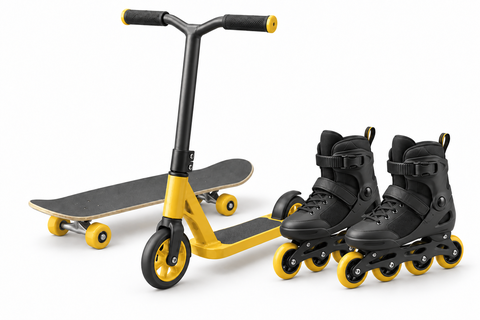
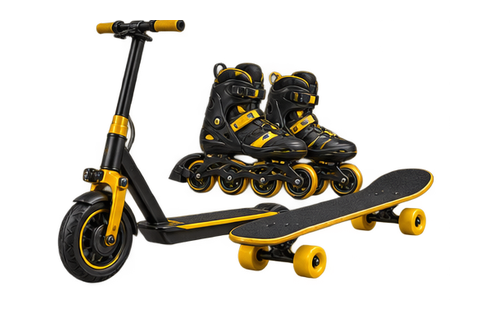
Fix bicycle menu preview, transparent section artwork and tax labels

diff --git a/profile.html b/profile.html
@@ -122,7 +122,7 @@
     </div>
   </main>
   <footer class="buyerCompactFooter"><a href="index.html">ПрофиСпорт · Оренбург</a><div class="buyerFooterLinks" aria-label="Информация покупателям"><a href="buyer-info.html#warranty">Гарантия</a><a href="buyer-info.html#payment">Оплата</a><a href="buyer-info.html#delivery">Доставка</a></div></footer>
-  <script src="catalog-loader.js?v=31"></script>
+  <script src="catalog-loader.js?v=32"></script>
   <script>
     let csrf='';const $=s=>document.querySelector(s);const esc=s=>String(s||'').replace(/[&<>"']/g,m=>({'&':'&amp;','<':'&lt;','>':'&gt;','"':'&quot;',"'":'&#39;'}[m]));
     async function api(action,opts={}){opts.headers={...(opts.headers||{}),'Content-Type':'application/json'};if(csrf)opts.headers['X-CSRF-Token']=csrf;const r=await fetch('api/customer.php?action='+action,opts);const j=await r.json();if(!r.ok)throw new Error(j.error||r.status);if(j.csrf)csrf=j.csrf;return j}
@@ -148,7 +148,7 @@
       return (items||[]).map(function(i){
         const image=i.image?'<img src="'+esc(i.image)+'" alt="" loading="lazy" decoding="async">':'<span class="customerOrderItemPh">Фото</span>';
         const availability=i.current_available?'<span class="orderItemNow available">Сейчас в наличии</span>':'<span class="orderItemNow unavailable">Сейчас недоступен</span>';
-        return '<div class="customerOrderItem"><div class="customerOrderItemImage">'+image+'</div><div class="customerOrderItemInfo"><b>'+esc(i.title)+'</b><span>'+Number(i.quantity)+' шт. × '+Number(i.price_rub||0).toLocaleString('ru-RU')+' ₽</span>'+availability+'</div><strong>'+Number(i.line_total_rub||0).toLocaleString('ru-RU')+' ₽</strong></div>';
+        return '<div class="customerOrderItem"><div class="customerOrderItemImage">'+image+'</div><div class="customerOrderItemInfo"><b>'+esc(cleanCatalogLabel(i.title))+'</b><span>'+Number(i.quantity)+' шт. × '+Number(i.price_rub||0).toLocaleString('ru-RU')+' ₽</span>'+availability+'</div><strong>'+Number(i.line_total_rub||0).toLocaleString('ru-RU')+' ₽</strong></div>';
       }).join('');
     }
     async function repeatOrder(number,button){
@@ -165,7 +165,7 @@
         localStorage.setItem('ps-cart',JSON.stringify(existing.concat(ids)));
         if((j.skipped||[]).length){
           const notice=document.querySelector('#repeatOrderNotice');
-          const skipped=(j.skipped||[]).map(function(x){return esc(x.title)+(x.reason==='reduced_stock'?' — добавлено '+Number(x.added)+' из '+Number(x.requested):' — недоступен')}).join('<br>');
+          const skipped=(j.skipped||[]).map(function(x){return esc(cleanCatalogLabel(x.title))+(x.reason==='reduced_stock'?' — добавлено '+Number(x.added)+' из '+Number(x.requested):' — недоступен')}).join('<br>');
           if(notice)notice.innerHTML='<div class="orderRepeatWarn"><b>Корзина собрана частично.</b><br>'+skipped+'<br><a href="checkout.html">Перейти к оформлению</a></div>';
           button.textContent='Добавлено в корзину';
           return;
@@ -294,7 +294,7 @@
     function maintenanceAlertMarkup(a){
       const due=String(a.severity)==='due',pct=a.wear_percent!==null&&a.wear_percent!==undefined?Number(a.wear_percent).toLocaleString('ru-RU',{maximumFractionDigits:1})+'%':'';
       const replacement=a.compatible_product?.available?'<a href="product.html?id='+encodeURIComponent(a.compatible_product.id)+'">Купить замену · '+Number(a.compatible_product.price_rub||0).toLocaleString('ru-RU')+' ₽</a>':(a.compatible_product_id?'<span class="maintenancePartUnavailable">Совместимая деталь сейчас не в наличии</span>':'');
-      return '<article class="maintenanceAlert '+(due?'due':'soon')+' '+(a.status==='acknowledged'?'acknowledged':'')+'" data-alert-id="'+Number(a.id)+'"><div class="maintenanceAlertIcon">'+(due?'!':'⌛')+'</div><div class="maintenanceAlertBody"><b>'+esc(a.title)+'</b><p>'+esc(a.message)+'</p><div class="maintenanceAlertMeta"><span>'+esc(a.vehicle_title||'Техника')+'</span>'+(pct?'<span>Износ '+pct+'</span>':'')+(a.status==='acknowledged'?'<span>Прочитано</span>':'')+'</div><div class="maintenanceAlertActions"><button type="button" data-alert-vehicle="'+Number(a.vehicle_id)+'">Открыть паспорт</button>'+replacement+(a.status!=='acknowledged'?'<button class="secondary" type="button" data-ack-alert="'+Number(a.id)+'">Прочитано</button>':'')+'</div></div></article>';
+      return '<article class="maintenanceAlert '+(due?'due':'soon')+' '+(a.status==='acknowledged'?'acknowledged':'')+'" data-alert-id="'+Number(a.id)+'"><div class="maintenanceAlertIcon">'+(due?'!':'⌛')+'</div><div class="maintenanceAlertBody"><b>'+esc(cleanCatalogLabel(a.title))+'</b><p>'+esc(a.message)+'</p><div class="maintenanceAlertMeta"><span>'+esc(cleanCatalogLabel(a.vehicle_title||'Техника'))+'</span>'+(pct?'<span>Износ '+pct+'</span>':'')+(a.status==='acknowledged'?'<span>Прочитано</span>':'')+'</div><div class="maintenanceAlertActions"><button type="button" data-alert-vehicle="'+Number(a.vehicle_id)+'">Открыть паспорт</button>'+replacement+(a.status!=='acknowledged'?'<button class="secondary" type="button" data-ack-alert="'+Number(a.id)+'">Прочитано</button>':'')+'</div></div></article>';
     }
     function renderMaintenanceAlerts(){
       const box=$('#maintenanceAlerts');if(!box)return;
@@ -310,7 +310,7 @@
     }
     function replacementPurchaseMarkup(p){
       const remaining=Number(p.remaining_qty||0),candidates=Array.isArray(p.candidates)?p.candidates:[];
-      return '<article class="replacementPurchaseCard" data-purchase-id="'+Number(p.id)+'"><div><b>'+esc(p.title)+'</b><p>Куплено: '+Number(p.quantity||1)+' · осталось назначить: '+remaining+'</p></div><div class="replacementCandidateList">'+(candidates.length?candidates.map(c=>'<button type="button" data-assign-purchase="'+Number(p.id)+'" data-assign-component="'+Number(c.component_id)+'"><span>'+esc(c.vehicle_title)+'</span><small>'+esc(c.component_label)+'</small></button>').join(''):'<span class="replacementNoCandidate">Совместимая техника сейчас не найдена. Покупка сохранена и не будет назначена автоматически.</span>')+'</div></article>';
+      return '<article class="replacementPurchaseCard" data-purchase-id="'+Number(p.id)+'"><div><b>'+esc(cleanCatalogLabel(p.title))+'</b><p>Куплено: '+Number(p.quantity||1)+' · осталось назначить: '+remaining+'</p></div><div class="replacementCandidateList">'+(candidates.length?candidates.map(c=>'<button type="button" data-assign-purchase="'+Number(p.id)+'" data-assign-component="'+Number(c.component_id)+'"><span>'+esc(cleanCatalogLabel(c.vehicle_title))+'</span><small>'+esc(c.component_label)+'</small></button>').join(''):'<span class="replacementNoCandidate">Совместимая техника сейчас не найдена. Покупка сохранена и не будет назначена автоматически.</span>')+'</div></article>';
     }
     function renderReplacementPurchases(){
       const box=$('#replacementPurchases');if(!box)return;
@@ -335,7 +335,7 @@
       const current=latestVehicleService(v.id),components=Array.isArray(v.passport?.components)?v.passport.components:[],known=components.filter(c=>c.model||c.manufacturer).length;
       const attention=components.filter(c=>['soon','due'].includes(String(c.wear?.state||''))).length;
       const status=current?'<span class="vehicleServiceState" data-status="'+esc(current.status)+'">'+esc(serviceStatusLabels[current.status]||current.status)+'</span>':attention?'<span class="vehicleServiceState" data-status="repair">Внимание: '+attention+'</span>':'<span class="vehicleServiceState idle">Сервис не требуется</span>';
-      const product=v.product_id?'<a class="vehicleTitle" href="product.html?id='+encodeURIComponent(v.product_id)+'">'+esc(v.title)+'</a>':'<span class="vehicleTitle">'+esc(v.title)+'</span>';
+      const product=v.product_id?'<a class="vehicleTitle" href="product.html?id='+encodeURIComponent(v.product_id)+'">'+esc(cleanCatalogLabel(v.title))+'</a>':'<span class="vehicleTitle">'+esc(cleanCatalogLabel(v.title))+'</span>';
       return '<article class="vehicleCard" data-vehicle-card="'+Number(v.id)+'"><div class="vehicleImage">'+vehicleImageMarkup(v)+'</div><div class="vehicleBody"><div class="vehicleTop"><span class="vehicleType">'+esc(vehicleTypeLabel(v.vehicle_type))+'</span>'+status+'</div>'+product+'<div class="vehicleMeta"><span>Покупка: '+esc(formatDate(v.purchase_date)||'—')+'</span><span>Заказ '+esc(v.order_number||'—')+'</span>'+(v.odometer_km!==null&&v.odometer_km!==undefined?'<span>'+Number(v.odometer_km).toLocaleString('ru-RU')+' км</span>':'')+(Number(v.unit_index)>1?'<span>Экземпляр '+Number(v.unit_index)+'</span>':'')+'</div><div class="vehicleMeta"><span>Подтверждено компонентов: '+known+'</span></div><div class="vehicleActions"><button type="button" class="secondary" data-open-passport="'+Number(v.id)+'">Паспорт техники</button><button type="button" data-service-vehicle="'+Number(v.id)+'">'+(current?'Новое обращение':'Записать в сервис')+'</button>'+(current?'<a href="#service-'+Number(current.id)+'">Текущий ремонт</a>':'')+'</div></div></article>';
     }
     function passportWearLabel(w){
@@ -375,7 +375,7 @@
         ?'<div><div class="vehiclePassportDiagram"><img src="assets/guide/bicycle.png" width="1382" height="1130" alt="Схема велосипеда">'+hotspots.map((h,i)=>'<button type="button" class="vehiclePassportHotspot '+passportStateForHotspot(passport,h.key)+'" style="left:'+Number(h.x)+'%;top:'+Number(h.y)+'%" data-passport-hotspot="'+esc(h.key)+'" aria-label="'+esc(h.label)+'">'+(i+1)+'</button>').join('')+'</div><div class="vehiclePassportLegend"><span>Зелёный — запас ресурса</span><span>Жёлтый — наблюдать</span><span>Оранжевый — скоро</span><span>Красный — расчётный ресурс исчерпан</span><span>Серый — данных недостаточно</span></div></div>'
         :'<div class="vehiclePassportEmpty"><b>Интерактивная схема для этого типа техники пока не настроена.</b><p>Паспорт узлов и история обслуживания работают без ложной велосипедной схемы.</p></div>';
       box.classList.remove('hidden');
-      box.innerHTML='<div class="vehiclePassportHead"><div><span class="profileSectionKicker">Паспорт техники</span><h4>'+esc(vehicle.title)+'</h4><p>'+(attention?'Требуют внимания: '+attention+' узл.':'Критических прогнозов сейчас нет.')+'</p></div><button id="closeVehiclePassport" class="secondary" type="button">Свернуть</button></div>'+
+      box.innerHTML='<div class="vehiclePassportHead"><div><span class="profileSectionKicker">Паспорт техники</span><h4>'+esc(cleanCatalogLabel(vehicle.title))+'</h4><p>'+(attention?'Требуют внимания: '+attention+' узл.':'Критических прогнозов сейчас нет.')+'</p></div><button id="closeVehiclePassport" class="secondary" type="button">Свернуть</button></div>'+
         '<div class="vehiclePassportLayout">'+visual+
         '<div><div id="vehiclePassportComponentList" class="vehiclePassportComponentList">'+(components.length?components.map(passportComponentCard).join(''):'<div class="vehiclePassportEmpty"><b>Точная комплектация ещё не подтверждена.</b><p>Мы не показываем выдуманные компоненты: здесь появятся только данные из 1С, сервиса или проверенного источника.</p></div>')+'</div><div class="vehiclePassportFoot"><button type="button" data-service-vehicle="'+Number(vehicle.id)+'">Записать технику в сервис</button></div></div></div>';
       $('#closeVehiclePassport').onclick=()=>{box.classList.add('hidden');box.innerHTML=''};
@@ -422,7 +422,7 @@
     }
     function openVehicleService(vehicle){
       const box=$('#serviceComposer');box.classList.remove('hidden');
-      box.innerHTML='<div class="vehicleServiceComposerHead"><div><span class="profileSectionKicker">Новая заявка</span><h4>'+esc(vehicle.title)+'</h4></div><button type="button" class="secondary" id="closeVehicleService">Закрыть</button></div><form id="vehicleServiceForm" data-vehicle-id="'+Number(vehicle.id)+'" data-request-key="'+newServiceRequestKey()+'"><label>Что нужно сделать<select name="service_type" required><option value="Диагностика">Диагностика</option><option value="Тормоза">Тормоза</option><option value="Передачи и цепь">Передачи и цепь</option><option value="Колёса и покрышки">Колёса и покрышки</option><option value="Техническое обслуживание">Техническое обслуживание</option><option value="Сборка и настройка">Сборка и настройка</option><option value="Другое">Другое</option></select></label><label>Опишите проблему<textarea name="problem" minlength="5" maxlength="4000" rows="5" required placeholder="Что произошло, когда появилось, какие симптомы?"></textarea></label><div class="vehicleServiceComposerActions"><button type="submit">Отправить заявку</button><span id="vehicleServiceMessage" aria-live="polite"></span></div></form>';
+      box.innerHTML='<div class="vehicleServiceComposerHead"><div><span class="profileSectionKicker">Новая заявка</span><h4>'+esc(cleanCatalogLabel(vehicle.title))+'</h4></div><button type="button" class="secondary" id="closeVehicleService">Закрыть</button></div><form id="vehicleServiceForm" data-vehicle-id="'+Number(vehicle.id)+'" data-request-key="'+newServiceRequestKey()+'"><label>Что нужно сделать<select name="service_type" required><option value="Диагностика">Диагностика</option><option value="Тормоза">Тормоза</option><option value="Передачи и цепь">Передачи и цепь</option><option value="Колёса и покрышки">Колёса и покрышки</option><option value="Техническое обслуживание">Техническое обслуживание</option><option value="Сборка и настройка">Сборка и настройка</option><option value="Другое">Другое</option></select></label><label>Опишите проблему<textarea name="problem" minlength="5" maxlength="4000" rows="5" required placeholder="Что произошло, когда появилось, какие симптомы?"></textarea></label><div class="vehicleServiceComposerActions"><button type="submit">Отправить заявку</button><span id="vehicleServiceMessage" aria-live="polite"></span></div></form>';
       $('#closeVehicleService').onclick=function(){box.classList.add('hidden');box.innerHTML=''};
       $('#vehicleServiceForm').onsubmit=submitVehicleService;
       box.scrollIntoView({behavior:'smooth',block:'center'});
@@ -454,7 +454,7 @@
     function favoriteCardMarkup(p){
       const id=String(p.product_id);
       const image=p.image?'<img src="'+esc(p.image)+'" alt="" loading="lazy" decoding="async">':'<span class="favoriteImagePlaceholder">Фото уточняется</span>';
-      const title=p.exists?esc(p.name):'Товар больше недоступен';
+      const title=p.exists?esc(cleanCatalogLabel(p.name)):'Товар больше недоступен';
       const link=p.url?'<a class="favoriteTitle" href="'+esc(p.url)+'">'+title+'</a>':'<span class="favoriteTitle">'+title+'</span>';
       const cart=p.available?'<button type="button" class="favoriteAddCart" data-favorite-cart="'+esc(id)+'">В корзину</button>':'<button type="button" class="favoriteAddCart" disabled>Нет в наличии</button>';
       return '<article class="favoriteCard" data-favorite-card="'+esc(id)+'"><button type="button" class="favoriteRemove" data-favorite-remove="'+esc(id)+'" aria-label="Удалить из избранного">♥</button><div class="favoriteImage">'+image+'</div><div class="favoriteBody">'+link+favoriteStockMarkup(p)+'<div class="favoritePriceRow">'+favoritePriceMarkup(p)+'</div><div class="favoriteActions">'+cart+(p.url?'<a href="'+esc(p.url)+'" class="favoriteOpen">Открыть</a>':'')+'</div><div class="favoriteNotice" aria-live="polite"></div></div></article>';

diff --git a/index.html b/index.html
@@ -15,7 +15,7 @@
   <link rel="alternate icon" type="image/png" href="assets/brand/favicon-profisport-v1.png">
   <link rel="stylesheet" href="back-to-top.css?v=2">
   <link rel="stylesheet" href="motion.css?v=3">
-  <link rel="stylesheet" href="sport-energy.css?v=13">
+  <link rel="stylesheet" href="sport-energy.css?v=14">
   <link href="psf-final-motion.css?v=12" rel="stylesheet">
   <script src="motion.js?v=6" defer></script>
 </head>
@@ -58,7 +58,7 @@
   </header>
 
   <nav>
-    <a id="desktopCatalogLink" href="#catalog">Каталог</a><a href="#catalog" data-department="bicycle">Велосипеды</a><a href="#catalog" data-category="запчаст">Запчасти</a><a href="#catalog" data-category="аксессуар">Аксессуары</a><a href="#catalog" data-category="лыж">Зимний спорт</a><a href="#catalog" data-category="фитнес">Фитнес</a><a href="service.html">Сервис</a>
+    <a id="desktopCatalogLink" href="#catalog">Каталог</a><a href="#catalog" data-category="велосипед">Велосипеды</a><a href="#catalog" data-category="запчаст">Запчасти</a><a href="#catalog" data-category="аксессуар">Аксессуары</a><a href="#catalog" data-category="лыж">Зимний спорт</a><a href="#catalog" data-category="фитнес">Фитнес</a><a href="service.html">Сервис</a>
     <details class="buyerNav" id="buyerNav"><summary>Покупателям</summary><div class="buyerDropdown" aria-label="Информация покупателям"><span class="buyerDropdownTitle">Помощь с покупкой</span><a href="buyer-info.html#payment"><b>Оплата и доставка</b><span>Способы оплаты и сроки</span></a><a href="buyer-info.html#warranty"><b>Гарантия и возврат</b><span>Условия для товаров магазина</span></a><a href="buyer-info.html#delivery"><b>Доставка по Оренбургу</b><span>Самовывоз и получение заказа</span></a></div></details>
   </nav>
   <div id="megaBackdrop" class="megaCatalogBackdrop"></div>
@@ -106,7 +106,7 @@
     </div>
     <section id="catalog" class="categorySection">
       <div class="sectionHead"><h2>Категории</h2><a class="sectionAction" href="#catalogProducts">Смотреть каталог</a></div>
-      <div id="categoryTiles" class="categoryTiles"><a href="?cat=bicycle#catalogProducts" class="categoryTile" data-department="bicycle"><div><h3>Велосипеды</h3><span>Город, прогулки и бездорожье</span></div><img class="categoryArtwork" src="assets/categories/bicycle-illustration-v1.png" width="480" height="320" alt="" loading="lazy" decoding="async"></a><a href="?cat=cycling#catalogProducts" class="categoryTile" data-department="cycling"><div><h3>Запчасти</h3><span>Точный подбор и совместимость</span></div><img class="categoryArtwork" src="assets/categories/parts-illustration-v1.png" width="480" height="320" alt="" loading="lazy" decoding="async"></a><a href="?cat=accessories#catalogProducts" class="categoryTile" data-department="accessories"><div><h3>Аксессуары</h3><span>Защита, свет и оснащение</span></div><img class="categoryArtwork" src="assets/categories/accessories-illustration-v1.png" width="480" height="320" alt="" loading="lazy" decoding="async"></a><a href="?cat=skiing#catalogProducts" class="categoryTile" data-department="skiing"><div><h3>Зимний спорт</h3><span>Лыжи, коньки и экипировка</span></div><img class="categoryArtwork" src="assets/categories/skiing-illustration-v2.png" width="480" height="320" alt="" loading="lazy" decoding="async"></a><a href="?cat=fitness#catalogProducts" class="categoryTile" data-department="fitness"><div><h3>Фитнес</h3><span>Тренировки и восстановление</span></div><img class="categoryArtwork" src="assets/categories/fitness-illustration-v1.png" width="480" height="320" alt="" loading="lazy" decoding="async"></a><a href="?cat=tourism#catalogProducts" class="categoryTile" data-department="tourism"><div><h3>Туризм и водный спорт</h3><span>Снаряжение для новых маршрутов</span></div><img class="categoryArtwork" src="assets/categories/tourism-illustration-v2.png" width="480" height="320" alt="" loading="lazy" decoding="async"></a><a href="?cat=scooter#catalogProducts" class="categoryTile" data-department="scooter"><div><h3>Ролики и скейты</h3><span>Катание, трюки и комплектующие</span></div><img class="categoryArtwork" src="assets/categories/scooter-illustration-v2.png" width="480" height="320" alt="" loading="lazy" decoding="async"></a></div>
+      <div id="categoryTiles" class="categoryTiles"><a href="?cat=bicycle#catalogProducts" class="categoryTile" data-department="bicycle"><div><h3>Велосипеды</h3><span>Город, прогулки и бездорожье</span></div><img class="categoryArtwork" src="assets/categories/bicycle-illustration-v1.png?v=2" width="480" height="320" alt="" loading="lazy" decoding="async"></a><a href="?cat=cycling#catalogProducts" class="categoryTile" data-department="cycling"><div><h3>Запчасти</h3><span>Точный подбор и совместимость</span></div><img class="categoryArtwork" src="assets/categories/parts-illustration-v1.png?v=2" width="480" height="320" alt="" loading="lazy" decoding="async"></a><a href="?cat=accessories#catalogProducts" class="categoryTile" data-department="accessories"><div><h3>Аксессуары</h3><span>Защита, свет и оснащение</span></div><img class="categoryArtwork" src="assets/categories/accessories-illustration-v1.png?v=2" width="480" height="320" alt="" loading="lazy" decoding="async"></a><a href="?cat=skiing#catalogProducts" class="categoryTile" data-department="skiing"><div><h3>Зимний спорт</h3><span>Лыжи, коньки и экипировка</span></div><img class="categoryArtwork" src="assets/categories/skiing-illustration-v2.png?v=2" width="480" height="320" alt="" loading="lazy" decoding="async"></a><a href="?cat=fitness#catalogProducts" class="categoryTile" data-department="fitness"><div><h3>Фитнес</h3><span>Тренировки и восстановление</span></div><img class="categoryArtwork" src="assets/categories/fitness-illustration-v1.png?v=2" width="480" height="320" alt="" loading="lazy" decoding="async"></a><a href="?cat=tourism#catalogProducts" class="categoryTile" data-department="tourism"><div><h3>Туризм и водный спорт</h3><span>Снаряжение для новых маршрутов</span></div><img class="categoryArtwork" src="assets/categories/tourism-illustration-v2.png?v=2" width="480" height="320" alt="" loading="lazy" decoding="async"></a><a href="?cat=scooter#catalogProducts" class="categoryTile" data-department="scooter"><div><h3>Ролики и скейты</h3><span>Катание, трюки и комплектующие</span></div><img class="categoryArtwork" src="assets/categories/scooter-illustration-v2.png?v=2" width="480" height="320" alt="" loading="lazy" decoding="async"></a></div>
     </section>
     <section id="brandShowcase" class="brandShowcase" hidden><div class="sectionHead"><h2>Выбирайте по бренду</h2><a class="sectionAction" href="#catalogProducts">Смотреть товары</a></div><div id="brandShortcuts" class="brandShortcuts"></div></section>
         <section id="catalogProducts">
@@ -175,11 +175,11 @@
       </div>
     </div>
   </dialog>
-  <script src="catalog-loader.js?v=31"></script>
-  <script src="catalog-live-paged.js?v=10"></script>
+  <script src="catalog-loader.js?v=32"></script>
+  <script src="catalog-live-paged.js?v=11"></script>
   <script src="brand-showcase.js?v=3"></script>
   <script src="catalog-filter-panel.js?v=1"></script>
-  <script src="app.js?v=65"></script>
+  <script src="app.js?v=66"></script>
   <script src="psf-final-motion.js?v=12"></script>
   <script src="buyer-info.js?v=1"></script>
   <script src="store-location.js?v=3"></script>

diff --git a/checkout.html b/checkout.html
@@ -13,7 +13,7 @@
   <div class="top"><b><a href="index.html" aria-label="ПрофиСпорт — на главную">Профи<span>Спорт</span></a></b><div class="topActions"><a href="index.html">← Магазин</a><a href="profile.html">Кабинет</a></div></div>
   <main><section class="checkoutPage"><h1>Оформление заказа</h1><div id="orderSummary"><p>Загрузка корзины…</p></div><section id="loyaltyCheckout" class="checkoutLoyalty" hidden></section><form id="order"><label>Имя<input required name="name" autocomplete="name"></label><label>Телефон<input required name="phone" type="tel" inputmode="tel" placeholder="+7 999 000-00-00" pattern="[+0-9 ()-]{10,20}"></label><label>Email<input name="email" type="email" autocomplete="email" placeholder="Для связи и личного кабинета"></label><label>Получение<select name="delivery"><option value="pickup">Самовывоз из магазина</option><option value="orenburg_delivery">Доставка по Оренбургу</option></select></label><label id="pickupStoreLabel">Магазин самовывоза<select name="pickup_store"><option value="Проспект Победы, 79">Проспект Победы, 79</option><option value="Проспект Победы, 118 строение 2">Проспект Победы, 118 строение 2</option></select></label><label id="addressLabel" hidden>Адрес доставки<input name="address"></label><label>Комментарий<textarea name="comment" rows="4"></textarea></label><p>Оплата и наличие подтверждаются менеджером. Стоимость доставки согласовывается отдельно.</p><button id="submitOrder" disabled>Подтвердить заказ</button></form><div id="orderMsg"></div><div id="done"></div></section></main>
   <footer class="buyerCompactFooter"><a href="index.html">ПрофиСпорт · Оренбург</a><div class="buyerFooterLinks" aria-label="Информация покупателям"><a href="buyer-info.html#warranty">Гарантия</a><a href="buyer-info.html#payment">Оплата</a><a href="buyer-info.html#delivery">Доставка</a></div></footer>
-  <script src="catalog-loader.js?v=30"></script><script src="checkout.js?v=4"></script>
+  <script src="catalog-loader.js?v=32"></script><script src="checkout.js?v=4"></script>
 <nav class="mobileBottomNav" aria-label="Основная навигация"><a href="index.html#catalogProducts" data-nav="catalog"><span class="navBubble"><svg viewBox="0 0 24 24" aria-hidden="true"><path d="M4 5h16M4 12h16M4 19h16"/></svg></span><span>Каталог</span></a><a href="checkout.html" data-nav="cart" class="active" aria-current="page"><span class="navBubble"><svg viewBox="0 0 24 24" aria-hidden="true"><path d="M3 4h2l2 11h10l2-8H6"/><circle cx="9" cy="19" r="1.5"/><circle cx="17" cy="19" r="1.5"/></svg></span><span>Корзина</span></a><a href="service.html" data-nav="service"><span class="navBubble"><svg viewBox="0 0 24 24" aria-hidden="true"><path d="M14.7 6.3a4 4 0 0 0-5 5L4 17l3 3 5.7-5.7a4 4 0 0 0 5-5l-2.4 2.4-3-3z"/></svg></span><span>Сервис</span></a><a href="profile.html" data-nav="profile"><span class="navBubble"><svg viewBox="0 0 24 24" aria-hidden="true"><circle cx="12" cy="8" r="4"/><path d="M4.5 21c.8-4.2 3.3-6.5 7.5-6.5s6.7 2.3 7.5 6.5"/></svg></span><span>Профиль</span></a></nav>
 <script src="back-to-top.js?v=2" defer></script><script src="cookie-consent.js?v=1" defer></script></body>
 </html>

diff --git a/catalog-loader.js b/catalog-loader.js
@@ -1,3 +1,10 @@
+// Presentation only: preserve source names, prices and accounting records.
+function cleanCatalogLabel(value){
+  return String(value??'')
+    .replace(/(?<![\p{L}\p{N}])(?:(?:цена\s+)?(?:с|без|включая|в\s*т\.?\s*ч\.?)\s+)?(?:\d+(?:[.,]\d+)?\s*%\s*)?(?:НДС|NDS|VAT)(?![\p{L}\p{N}])(?:\s+не\s+облагается|\s*[-–—:=]?\s*\d+(?:[.,]\d+)?\s*%)?/giu,'')
+    .replace(/[([]\s*[)\]]/g,'')
+    .replace(/\s+/g,' ').replace(/^[\s,;:–—-]+|[\s,;:–—-]+$/g,'').trim();
+}
 function readStoredArray(key){try{const value=JSON.parse(localStorage.getItem(key)||'[]');return Array.isArray(value)?value.filter(x=>typeof x==='string'||typeof x==='number'):[]}catch(e){return[]}}
 function pathOf(p){return p.category_path||p.breadcrumbs||[]}
 function textNorm(s){return String(s||'').toLowerCase().replace(/ё/g,'е').replace(/[^a-zа-я0-9.,+"' -]+/gi,' ').replace(/\s+/g,' ').trim()}
@@ -49,7 +56,7 @@ function catalogSectionFor(department){
 function catalogCategoryLabel(key){return CATALOG_SECTIONS[key]?.label||CATALOG_DEPARTMENTS[key]?.label||key}
 function isSupReference(name){return /(?:^|[^a-zа-я])(?:sup(?=$|[^a-z])|са[пб](?:[- ]?борд|(?=$|[^а-я])))/i.test(textNorm(name))}
 function cleanPath(path){
-  const list=Array.isArray(path)?path.map(x=>String(x||'').trim()).filter(Boolean):[];
+  const list=Array.isArray(path)?path.map(cleanCatalogLabel).filter(Boolean):[];
   return list.filter(x=>!['главная','каталог товаров','каталог'].includes(textNorm(x)))
 }
 function startsAny(n,arr){return arr.some(x=>n===x||n.startsWith(x+' ')||n.startsWith(x+'-')||n.startsWith(x+','))}
@@ -159,7 +166,7 @@ function catalogSubcategory(name,path,tax){
   // DIAFAN roots can include tax suffixes: "Велосипеды (НДС)".
   // Keep their actual leaf categories instead of collapsing every bike to the root.
   if(tax.key==='bicycle'&&(path.some(part=>/велосипед/.test(textNorm(part)))||/горн|детск|малыш|подрост|складн|фэтбайк|двухподвес|гибрид|шоссе|дорожн|городск|bmx/i.test(leaf))){
-    return leaf.replace(/\s*\(?\s*(?:НДС|NDS|VAT)(?:\s*[-–:]?\s*\d+(?:[.,]\d+)?\s*%)?\s*\)?/gi,'').trim()||'Велосипеды';
+    return cleanCatalogLabel(leaf)||'Велосипеды';
   }
   // Do not expose an unrelated old category (e.g. skates on a bicycle).
   if(tax.source==='name'&&path.length&&departmentFor('',path).key!==tax.key)return CATALOG_DEPARTMENTS[tax.key]?.label||leaf;
@@ -262,7 +269,7 @@ function normalizeProduct(p,i){
   const oldPrice=rawOld>price?rawOld:0;
   const qty=p.stock_qty===null||p.stock_qty===undefined||p.stock_qty===''?null:Number(p.stock_qty);
   const stockCode=(p.availability==='in_stock'||p.stock_status==='in_stock')?'in':(p.availability==='out_of_stock'||p.stock_status==='out_of_stock')?'out':'unknown';
-  const name=p.title||p.name||'Товар';
+  const name=cleanCatalogLabel(p.title||p.name)||'Товар';
   const specs=sanitizeCatalogSpecs(name,p.specs||{});
   const brandInfo=resolveCatalogBrand(name,p.brand,specs);
   const brand=brandInfo.brand;

diff --git a/product.html b/product.html
@@ -15,7 +15,7 @@
   <div class="top"><b><a href="index.html" aria-label="ПрофиСпорт — на главную">Профи<span>Спорт</span></a></b><div class="topActions"><a class="topIconBtn productHeaderAction" href="index.html#catalogProducts" aria-label="Каталог товаров" title="Каталог товаров"><svg viewBox="0 0 24 24" aria-hidden="true"><rect x="4" y="4" width="6" height="6" rx="1"/><rect x="14" y="4" width="6" height="6" rx="1"/><rect x="4" y="14" width="6" height="6" rx="1"/><rect x="14" y="14" width="6" height="6" rx="1"/></svg></a><a class="topIconBtn productHeaderAction" href="checkout.html" aria-label="Корзина" title="Корзина"><svg viewBox="0 0 24 24" aria-hidden="true"><path d="M3 4h2l2 11h10l2-8H6"/><circle cx="9" cy="19" r="1.5"/><circle cx="17" cy="19" r="1.5"/></svg></a><a class="topIconBtn productHeaderAction" href="profile.html" aria-label="Личный кабинет" title="Личный кабинет"><svg viewBox="0 0 24 24" aria-hidden="true"><circle cx="12" cy="8" r="4"/><path d="M4.5 21c.8-4.2 3.3-6.5 7.5-6.5s6.7 2.3 7.5 6.5"/></svg></a></div></div>
   <main class="productShell"><div id="productPage"><p>Загрузка товара…</p></div></main>
   <footer><b>Профи<span>Спорт</span></b><span>Оренбург, проспект Победы, 79</span><span>Продажа · Сервис · Доставка</span><div class="buyerFooterLinks" aria-label="Информация покупателям"><a href="buyer-info.html#warranty">Гарантия</a><a href="buyer-info.html#payment">Оплата</a><a href="buyer-info.html#delivery">Доставка</a></div></footer>
-  <script src="catalog-loader.js?v=30"></script><script src="product-related.js?v=2"></script><script src="product-kant.js?v=9"></script>
+  <script src="catalog-loader.js?v=32"></script><script src="product-related.js?v=3"></script><script src="product-kant.js?v=9"></script>
 <nav class="mobileBottomNav" aria-label="Основная навигация"><a href="index.html#catalogProducts" data-nav="catalog" class="active" aria-current="page"><span class="navBubble"><svg viewBox="0 0 24 24" aria-hidden="true"><path d="M4 5h16M4 12h16M4 19h16"/></svg></span><span>Каталог</span></a><a href="checkout.html" data-nav="cart"><span class="navBubble"><svg viewBox="0 0 24 24" aria-hidden="true"><path d="M3 4h2l2 11h10l2-8H6"/><circle cx="9" cy="19" r="1.5"/><circle cx="17" cy="19" r="1.5"/></svg></span><span>Корзина</span></a><a href="service.html" data-nav="service"><span class="navBubble"><svg viewBox="0 0 24 24" aria-hidden="true"><path d="M14.7 6.3a4 4 0 0 0-5 5L4 17l3 3 5.7-5.7a4 4 0 0 0 5-5l-2.4 2.4-3-3z"/></svg></span><span>Сервис</span></a><a href="profile.html" data-nav="profile"><span class="navBubble"><svg viewBox="0 0 24 24" aria-hidden="true"><circle cx="12" cy="8" r="4"/><path d="M4.5 21c.8-4.2 3.3-6.5 7.5-6.5s6.7 2.3 7.5 6.5"/></svg></span><span>Профиль</span></a></nav>
 <script src="back-to-top.js?v=2" defer></script><script src="cookie-consent.js?v=1" defer></script></body>
 </html>

diff --git a/app.js b/app.js
@@ -265,20 +265,17 @@ const megaSections={
 const navigationCategory={'велосипед':'bicycle','самокат':'scooter','запчаст':'cycling','аксессуар':'accessories','лыж':'skiing','фитнес':'fitness','туризм':'tourism'};
 let megaContext='',megaCloseTimer,megaTrigger=null;
 const MEGA_CATEGORY_ART={
-  bicycle:'assets/categories/bicycle-illustration-v1.png',
-  cycling:'assets/categories/parts-illustration-v1.png',
-  accessories:'assets/categories/accessories-illustration-v1.png',
-  skiing:'assets/categories/skiing-illustration-v2.png',
-  fitness:'assets/categories/fitness-illustration-v1.png',
-  tourism:'assets/categories/tourism-illustration-v2.png',
-  scooter:'assets/categories/scooter-illustration-v2.png'
+  bicycle:'assets/categories/bicycle-illustration-v1.png?v=2',
+  cycling:'assets/categories/parts-illustration-v1.png?v=2',
+  accessories:'assets/categories/accessories-illustration-v1.png?v=2',
+  skiing:'assets/categories/skiing-illustration-v2.png?v=2',
+  fitness:'assets/categories/fitness-illustration-v1.png?v=2',
+  tourism:'assets/categories/tourism-illustration-v2.png?v=2',
+  scooter:'assets/categories/scooter-illustration-v2.png?v=2'
 };
 function megaPhotoSources(items,fallbackKey=''){
-  const preferred=new Set(['bicycle','scooter','skis','snowboard','skates','rollers','dumbbell','kettlebell','ball','tent','helmet']);
-  const candidates=[...items].sort((a,b)=>Number(preferred.has(b.productType))-Number(preferred.has(a.productType)));
-  const productSources=[...new Set(candidates.flatMap(p=>imageCandidates(p).filter(src=>!src.includes('product-fallback-image.php')).slice(0,1)))].slice(0,5);
-  const fallback=MEGA_CATEGORY_ART[fallbackKey]||MEGA_CATEGORY_ART[catalogSectionFor(items[0]?.department)]||MEGA_CATEGORY_ART.accessories;
-  return [...productSources,fallback].filter(Boolean);
+  // Section artwork is independent of product photography and availability.
+  return [MEGA_CATEGORY_ART[fallbackKey]||MEGA_CATEGORY_ART[catalogSectionFor(items[0]?.department)]||MEGA_CATEGORY_ART.accessories];
 }
 function buildMega(context=''){
   const panel=$('#megaCatalog');if(!panel)return;
@@ -417,8 +414,8 @@ function setupHero(){
   dots.forEach((d,i)=>d.onclick=()=>setSlide(i));
   slider.querySelector('.heroPrev')&&(slider.querySelector('.heroPrev').onclick=()=>setSlide(current-1));
   slider.querySelector('.heroNext').onclick=()=>{if(!suppressClick)setSlide(current+1)};
-  
-  
+
+
   slider.addEventListener('focusin',pause);
   slider.addEventListener('focusout',()=>setTimeout(resume,0));
   slider.addEventListener('keydown',e=>{

diff --git a/sport-energy.css b/sport-energy.css
@@ -1,5 +1,11 @@
 /* One public sport-tech layer; the administration keeps its functional UI. */
 :root{--energy: #ffc928;--energy-strong:#e8a914;--energy-dark:#13191e;--energy-panel:#20282f;--energy-soft:#eef1f3;--energy-shadow:0 18px 48px #11182014;--y:var(--energy)}
+/* The compact header originally assumed a white nav. Keep its interaction
+   states readable on the current graphite surface. */
+body.motion-page>nav:not(.mobileBottomNav)>a:is(:hover,:focus-visible,[aria-expanded="true"]){color:var(--energy);background:transparent}
+body.motion-page>nav:not(.mobileBottomNav)>a:focus-visible{outline-color:var(--energy)}
+body.motion-page #megaCatalog .megaGroup :is(.megaCardHead,.megaCardMore,.megaLinks a):is(:hover,:focus-visible){color:#20282f;background:#fff3c4;border-radius:10px}
+body.motion-page #megaCatalog .megaGroup :is(.megaCardHead,.megaCardMore,.megaLinks a):focus-visible{outline:2px solid #947000;outline-offset:2px}
 body.motion-page:not(.motion-admin){font-family:'Segoe UI',Arial,sans-serif;color:#20282f;background:#f5f6f7;--profisport-brand-logo:url('assets/brand/profisport-logo.svg')}
 .motion-page :is(h1,h2,h3){font-family:inherit;font-style:normal;letter-spacing:-.025em;font-weight:650;text-transform:none;line-height:1.2}
 .motion-page:not(.motion-admin) :is(p,label,small,input,select,textarea,.price,.priceNow,.stock,h1,h2,h3,h4){font-family:'Segoe UI',Arial,sans-serif!important}
@@ -279,3 +285,6 @@ body.motion-page:not(.motion-admin){font-family:'Segoe UI',Arial,sans-serif;colo
   #categoryTiles .categoryTile .categoryArtwork,
   #categoryTiles .categoryTile:first-child .categoryArtwork{height:112px;margin-top:12px}
 }
+
+/* Transparent section artwork keeps the original brand colours. */
+#categoryTiles .categoryTile .categoryArtwork{mix-blend-mode:normal;filter:none}

diff --git a/product-related.js b/product-related.js
@@ -25,11 +25,5 @@ function descriptionText(value){
 }
 
 
-// Tax/accounting suffixes are hidden only in storefront navigation labels.
-function cleanProductCategoryLabel(value){
-  return String(value||'')
-    .replace(/(?<![\p{L}\p{N}])(?:НДС|NDS|VAT)\s+не\s+облагается/giu,'')
-    .replace(/(?<![\p{L}\p{N}])(?:(?:без|с|включая)\s+)?(?:НДС|NDS|VAT)(?![\p{L}])(?:\s*[-–—:=]?\s*\d+(?:[.,]\d+)?\s*%)?/giu,'')
-    .replace(/[([]\s*[)\]]/g,'')
-    .replace(/\s+/g,' ').replace(/^[\s,;:–—-]+|[\s,;:–—-]+$/g,'').trim();
-}
+// Use the same presentation rule in breadcrumbs, catalogue and basket.
+function cleanProductCategoryLabel(value){return cleanCatalogLabel(value)}

diff --git a/catalog-live-paged.js b/catalog-live-paged.js
@@ -62,7 +62,7 @@
     return live;
   }
 
-  const CACHE_KEY='live-catalog-imgtruth5-taxonomy5',CACHE_MAX_AGE=120000;
+  const CACHE_KEY='live-catalog-imgtruth5-taxonomy6',CACHE_MAX_AGE=120000;
   function catalogCache(mode,items,maxAge=CACHE_MAX_AGE){
     return new Promise(resolve=>{
       let database,settled=false;
